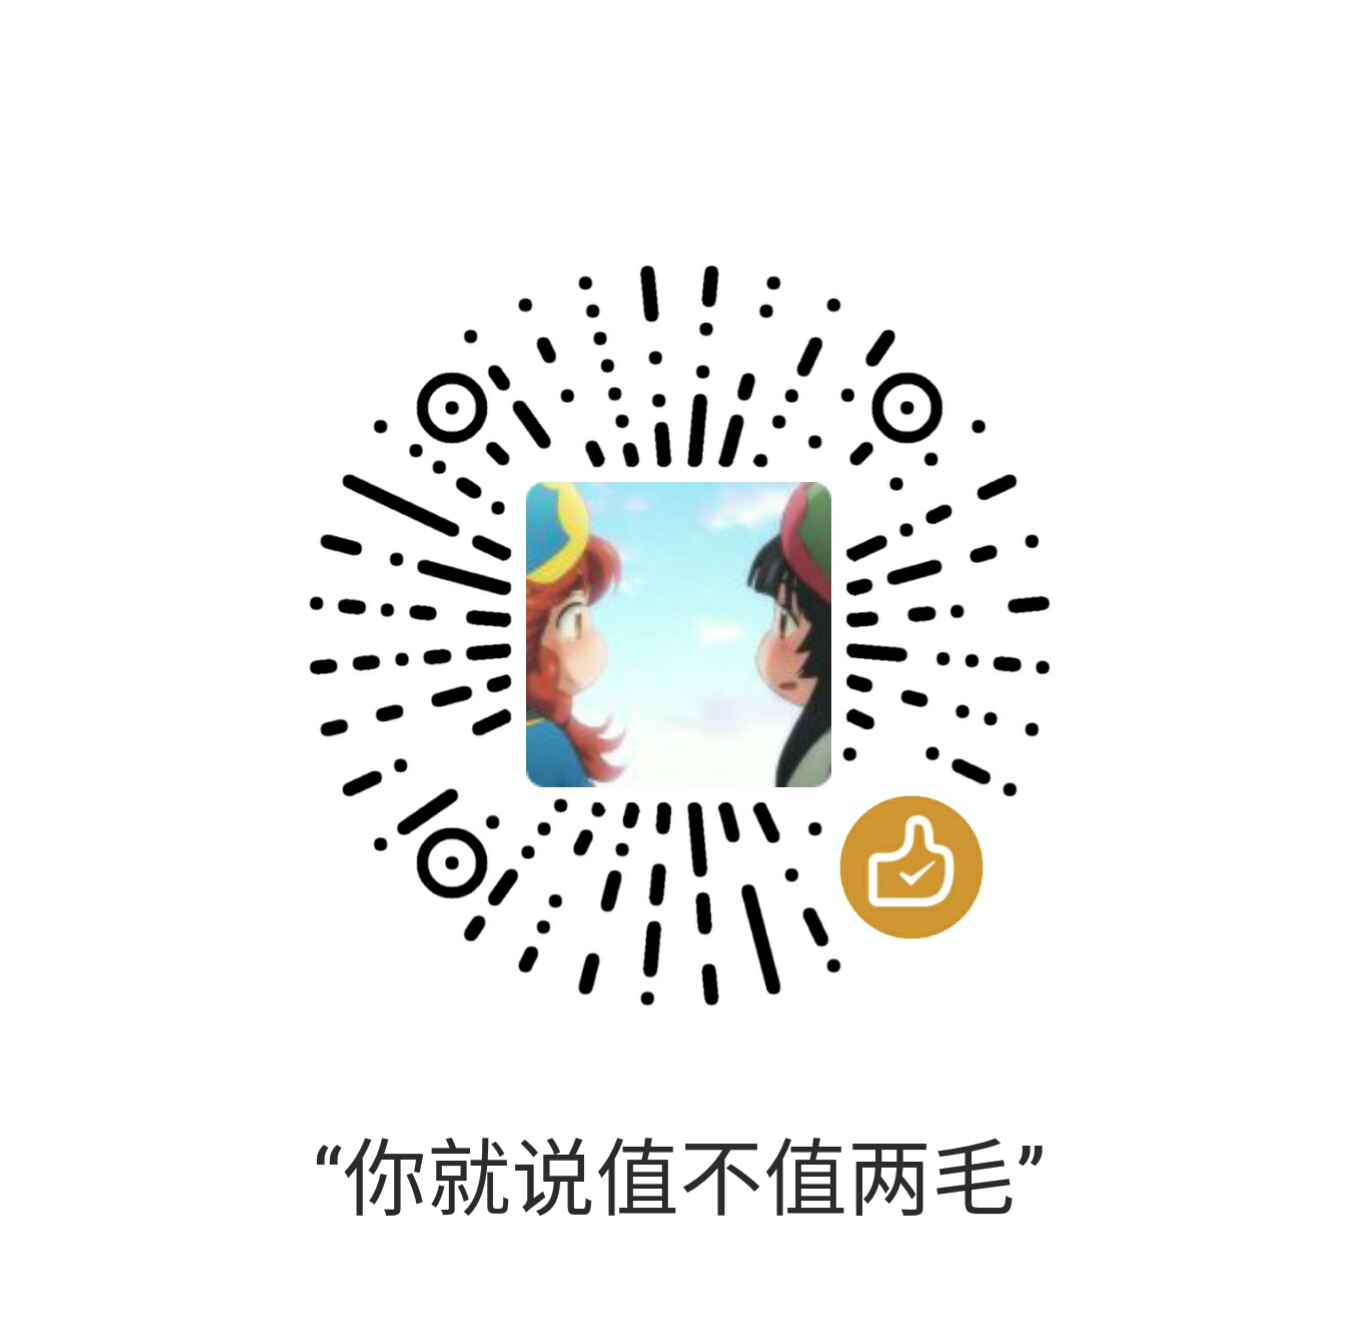
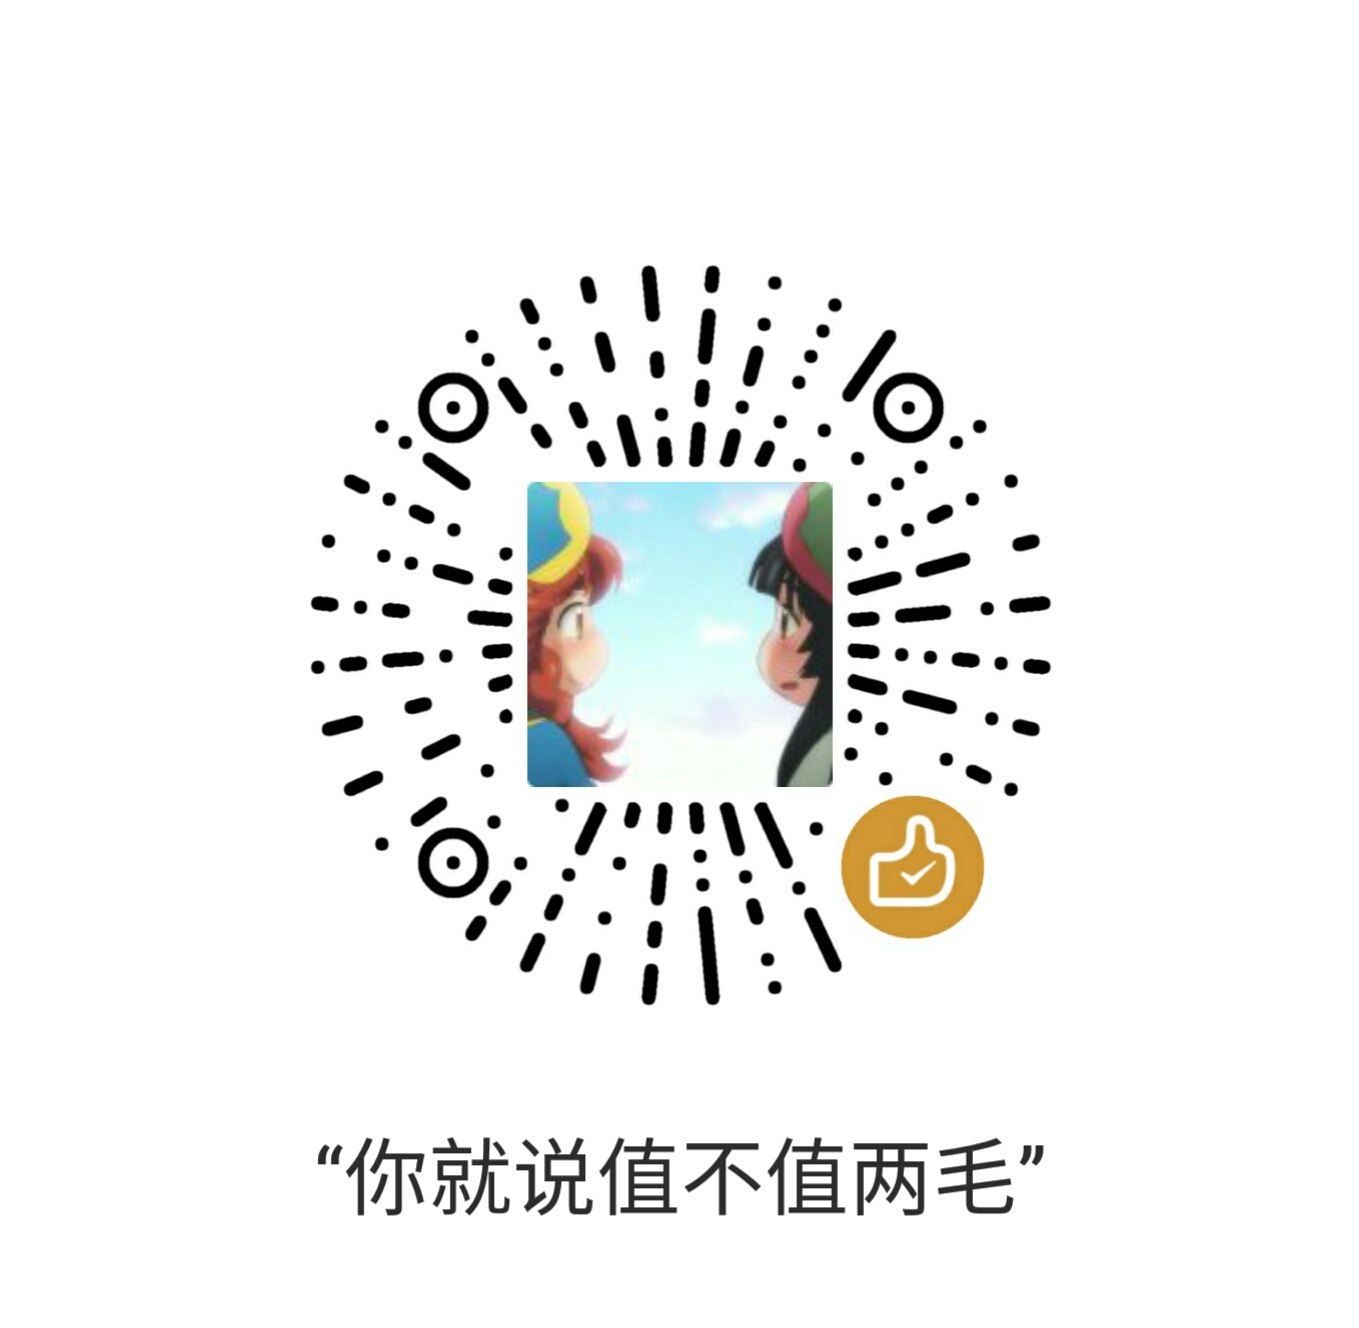
loading img position change

diff --git a/iooi/css/search-form.css b/iooi/css/search-form.css
@@ -15,7 +15,7 @@ http://www.jq22.com/demo/jquery-SearchBar20160307/img/image.jpg
 #loadingImg{
     position: fixed;
     top: 39.5%;
-    left: 41.5%;
+    left: 45%;
     z-index: 11111;
     font-size: 3.95em;
     color:#11cc53;
